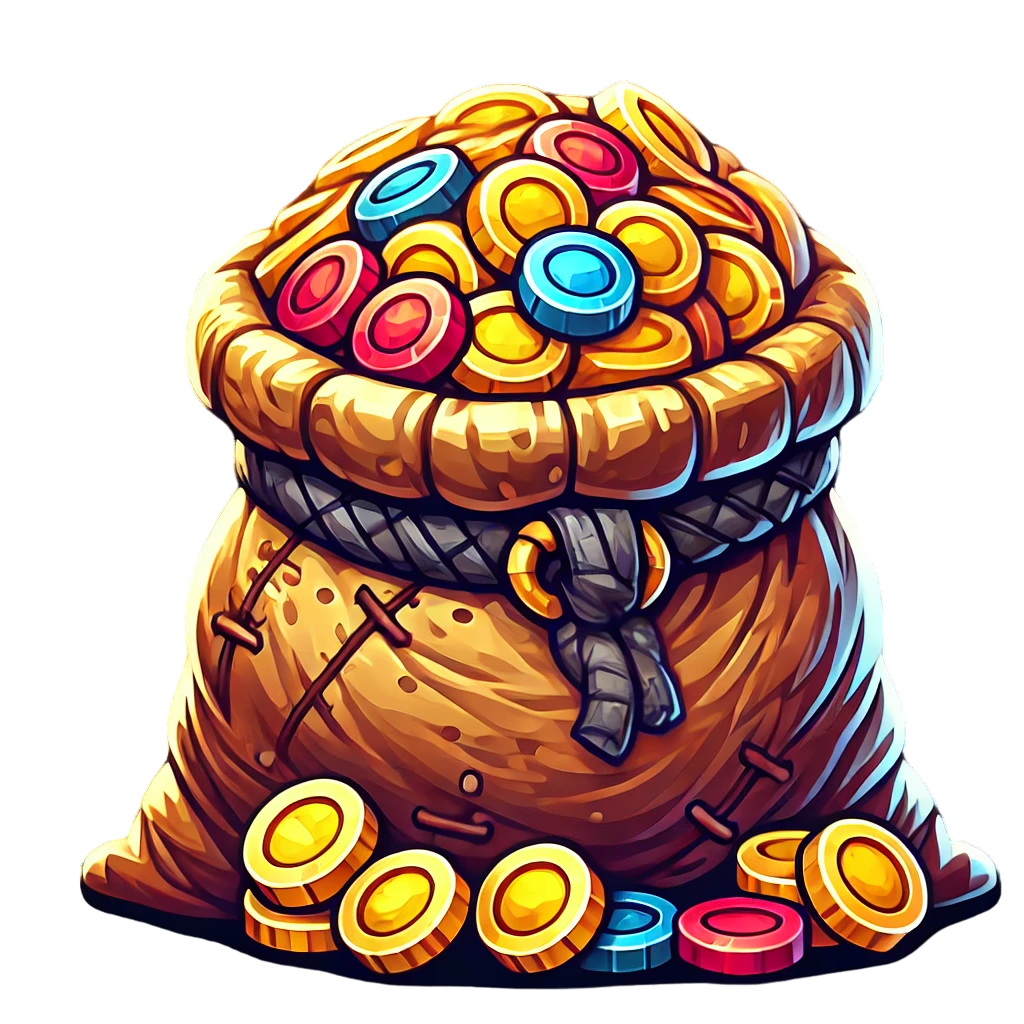
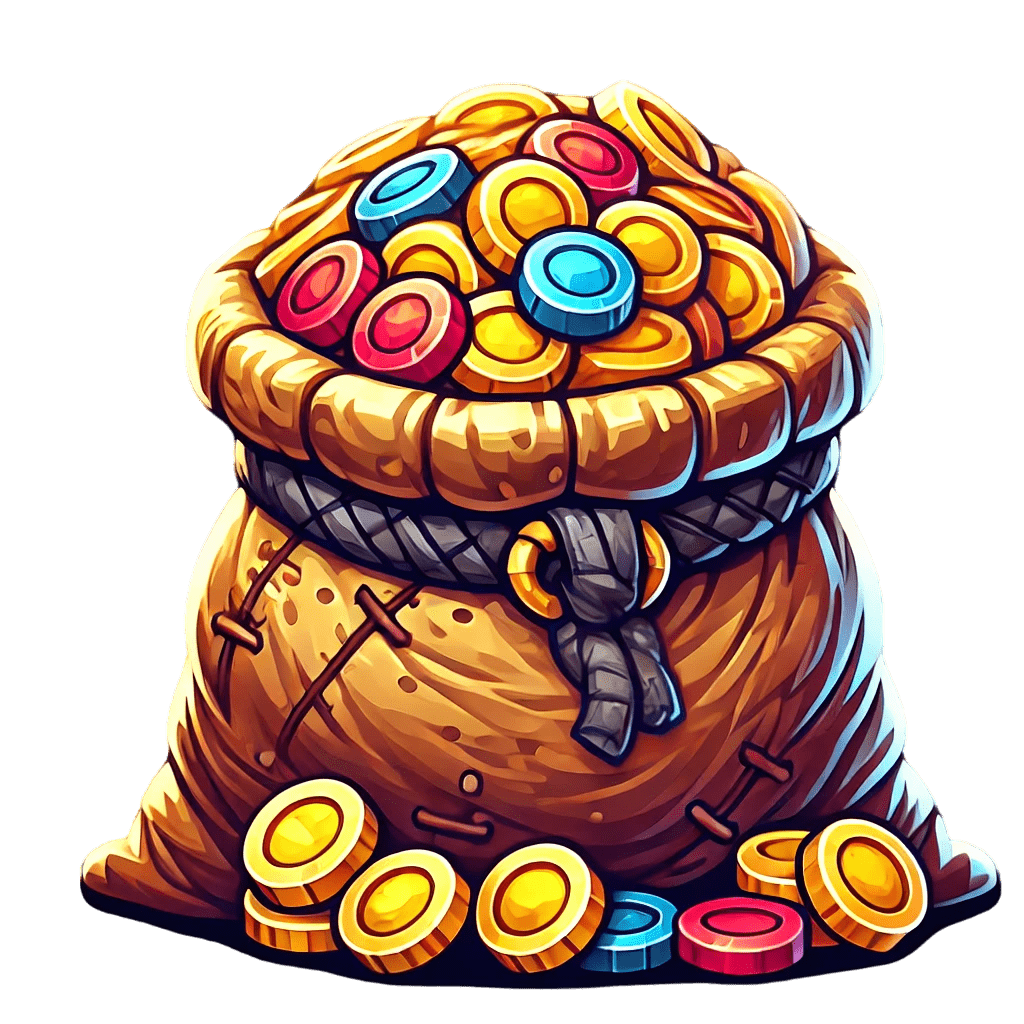
feat(assets): more compression...

Changed region(s): [[0.5938, 0.1562, 0.625, 0.1875]]

diff --git a/src/modules/game/activities/inventory/inventory.component.scss b/src/modules/game/activities/inventory/inventory.component.scss
@@ -48,7 +48,7 @@
     height: 100%;
     max-width: 740px;
     opacity: 0.7;
-    background-image: url('../../../../assets/siluette.png');
+    background-image: url('../../../../assets/silhouettes/legacy.webp');
     background-position: center;
     background-repeat: no-repeat;
     background-size: cover;

diff --git a/src/modules/lootbox-presale/soon-presale/soon-presale.component.scss b/src/modules/lootbox-presale/soon-presale/soon-presale.component.scss
@@ -1,5 +1,5 @@
 .bg {
-  background-image: url('../../../assets/misc/presale-announce.png');
+  background-image: url('../../../assets/misc/presale-announce.webp');
   background-repeat: no-repeat;
   background-size: cover;
   background-position: center;
